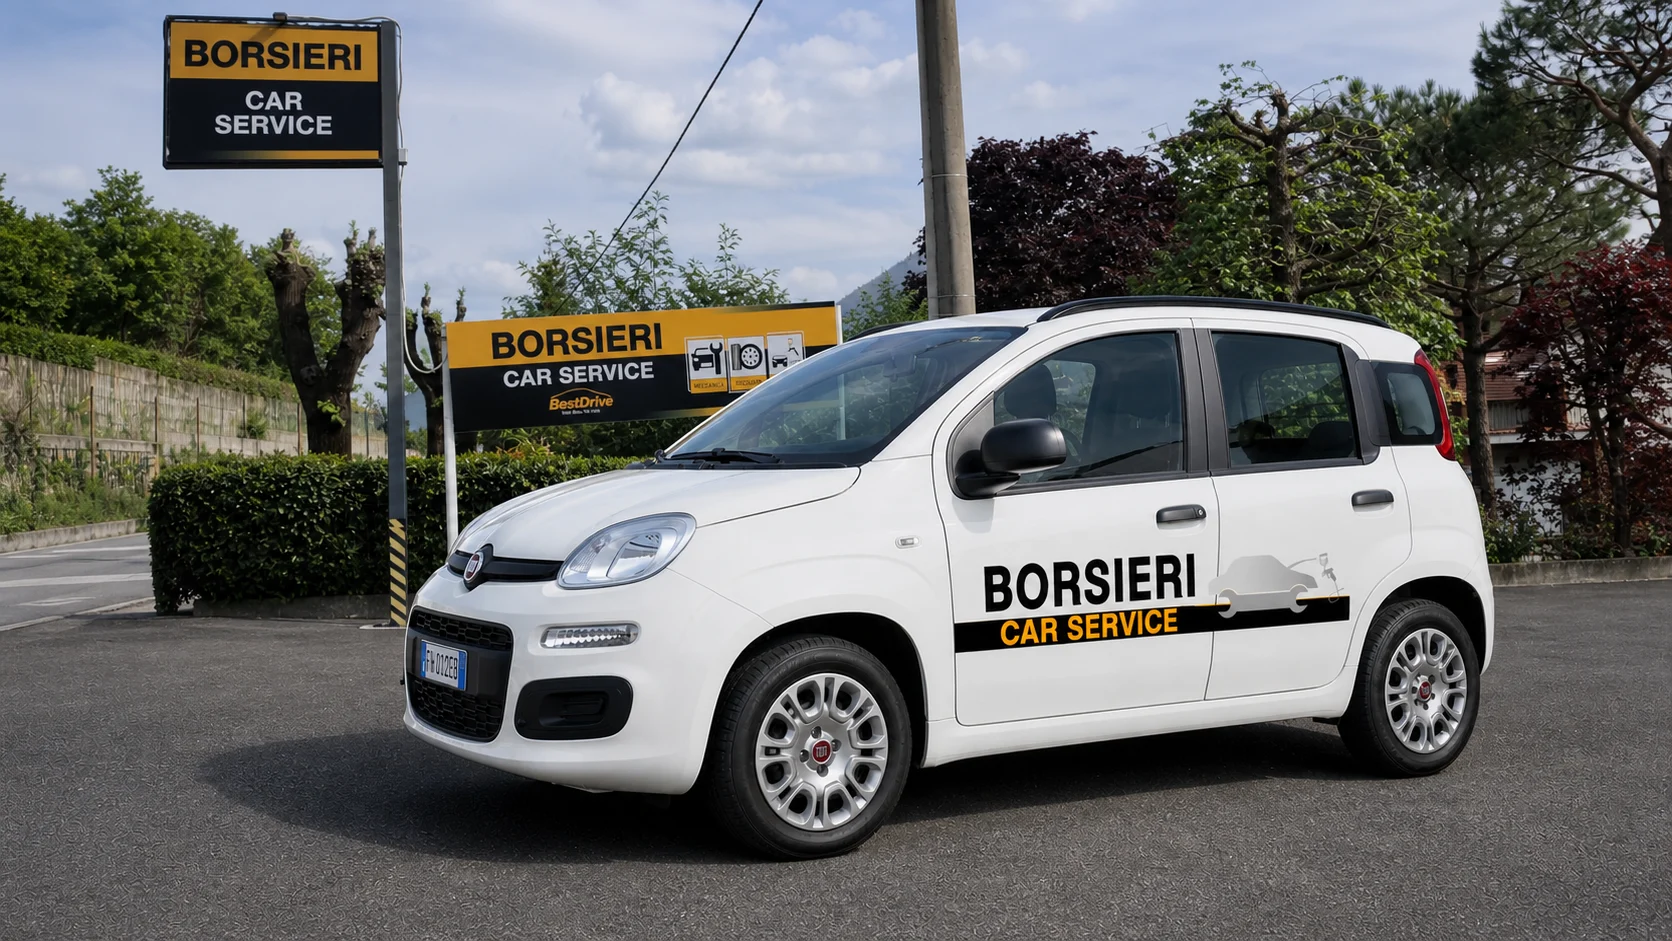
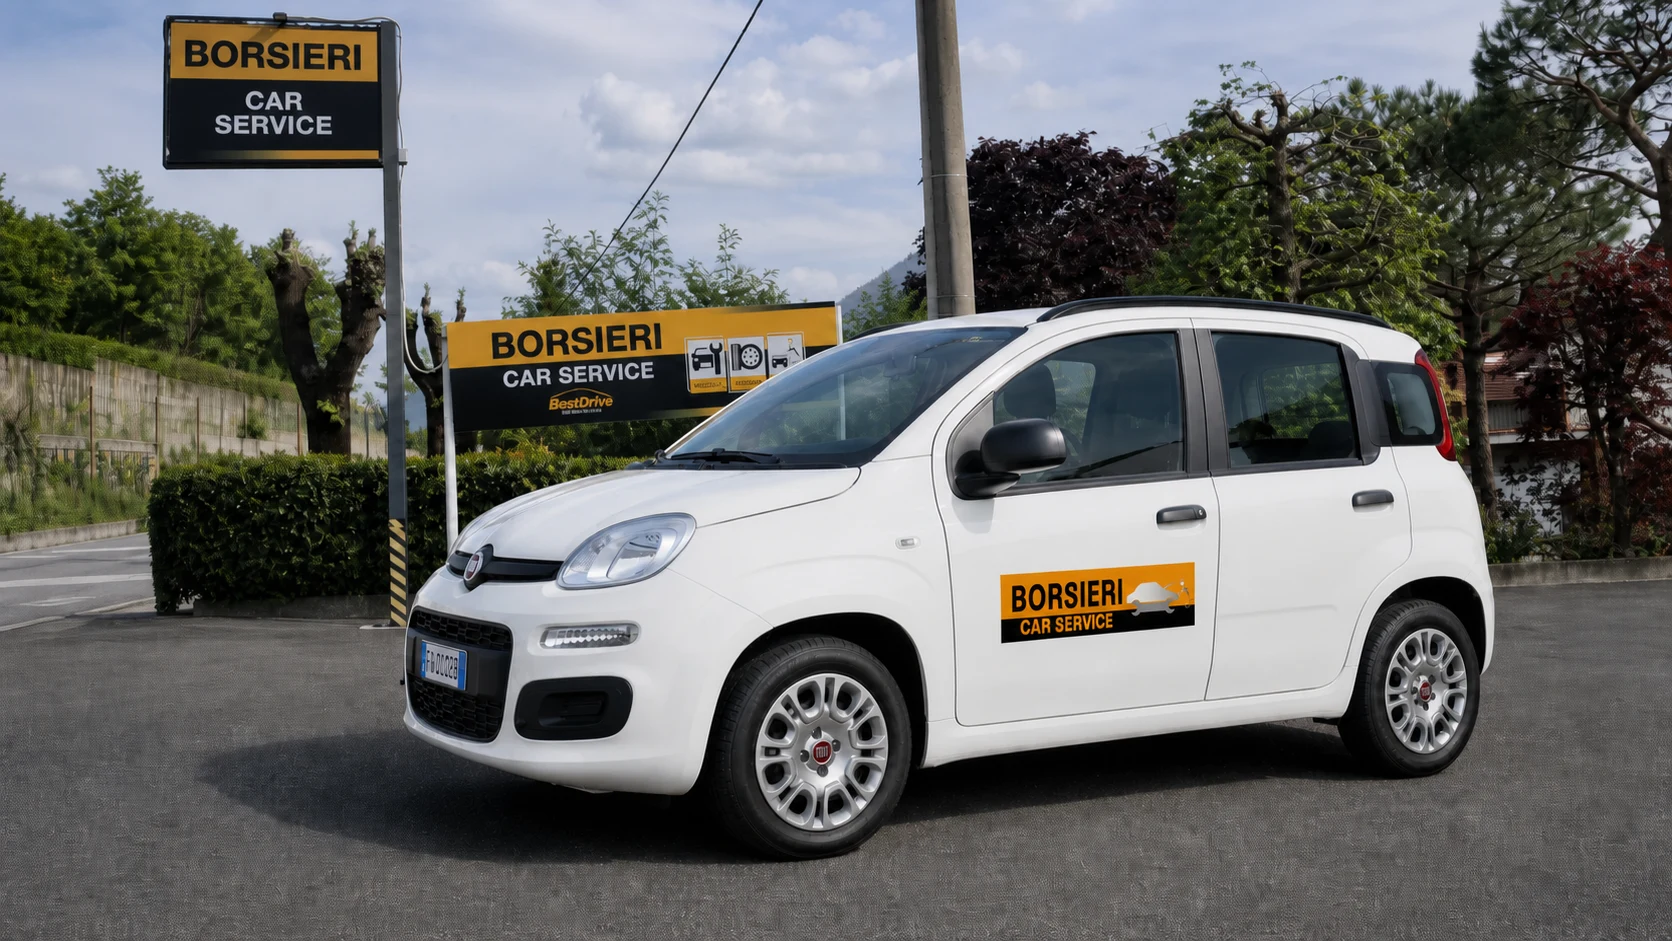
Expand mechanical services and refine courtesy car

diff --git a/app/page.tsx b/app/page.tsx
@@ -92,6 +92,7 @@ export default function Home() {
         </a>
         <nav className="nav" aria-label="Navigazione principale">
           <a href="#servizi">Carrozzeria</a>
+          <a href="#meccanica">Meccanica</a>
           <a href="#lavorazioni">Lavorazioni</a>
           <a href="/prenotazione-cambio-gomme">Cambio gomme</a>
           <a href="#contatti">Contatti</a>
@@ -114,6 +115,9 @@ export default function Home() {
             <div className="hero-actions">
               <a className="button primary" href="#servizi">
                 Richiedi valutazione in sede
+              </a>
+              <a className="button secondary" href="#meccanica">
+                Assistenza meccanica
               </a>
               <a className="button secondary" href="/prenotazione-cambio-gomme">
                 Prenota cambio gomme
@@ -184,6 +188,51 @@ export default function Home() {
         </div>
       </section>
 
+      <section className="mechanic-focus" id="meccanica">
+        <div className="section-inner mechanic-focus-grid">
+          <div className="mechanic-focus-media">
+            <img
+              src="/servizio-meccanica.webp"
+              alt="Tecnico Borsieri durante un intervento nel vano motore"
+            />
+          </div>
+          <div className="mechanic-focus-copy">
+            <div className="eyebrow">Officina meccanica</div>
+            <h2>Diagnosi e manutenzione con competenza tecnica</h2>
+            <p>
+              L&apos;area meccanica completa il servizio Borsieri con controlli accurati,
+              manutenzione programmata e interventi sui principali sistemi del veicolo. Un unico
+              referente coordina diagnosi, lavorazione e verifica finale.
+            </p>
+            <div className="mechanic-capabilities" aria-label="Servizi di officina meccanica">
+              <div>
+                <strong>Diagnosi e controlli</strong>
+                <span>Elettronica, livelli, componenti e verifica delle anomalie.</span>
+              </div>
+              <div>
+                <strong>Manutenzione programmata</strong>
+                <span>Tagliandi e interventi periodici secondo le esigenze del veicolo.</span>
+              </div>
+              <div>
+                <strong>Sicurezza e comfort</strong>
+                <span>Freni, sospensioni, climatizzazione e controlli funzionali.</span>
+              </div>
+            </div>
+            <div className="mechanic-focus-actions">
+              <a
+                className="button primary"
+                href="mailto:borsiericar@gmail.com?subject=Richiesta%20intervento%20meccanico"
+              >
+                Richiedi un controllo
+              </a>
+              <a className="button mechanic-secondary" href="tel:+39031210622">
+                Chiama l&apos;officina
+              </a>
+            </div>
+          </div>
+        </div>
+      </section>
+
       <section className="swiss-service" aria-labelledby="swiss-service-title">
         <div className="section-inner swiss-service-grid">
           <div className="swiss-service-copy">
@@ -207,12 +256,19 @@ export default function Home() {
             </div>
           </div>
           <div className="replacement-car-highlight">
-            <span>Mobilita durante la lavorazione</span>
-            <strong>Auto sostitutiva anche per residenti in Svizzera</strong>
-            <p>
-              Disponibile su richiesta e previa conferma, in base alla durata dell&apos;intervento e
-              alla disponibilita dei veicoli.
-            </p>
+            <div
+              aria-label="Fiat Panda sostitutiva Borsieri Car Service"
+              className="replacement-car-image"
+              role="img"
+            />
+            <div className="replacement-car-content">
+              <span>Mobilita durante la lavorazione</span>
+              <strong>Auto sostitutiva anche per residenti in Svizzera</strong>
+              <p>
+                Disponibile su richiesta e previa conferma, in base alla durata dell&apos;intervento e
+                alla disponibilita dei veicoli.
+              </p>
+            </div>
           </div>
         </div>
       </section>

diff --git a/app/globals.css b/app/globals.css
@@ -664,39 +664,128 @@ h1 {
 }
 
 .replacement-car-highlight {
-  align-content: end;
-  background:
-    linear-gradient(180deg, rgba(0, 0, 0, 0.12), rgba(0, 0, 0, 0.88)),
-    url("/auto-sostitutiva-borsieri.webp");
-  background-position: center;
-  background-size: cover;
+  background: #0b0b0b;
   border: 1px solid rgba(255, 153, 0, 0.36);
   border-radius: 8px;
   display: grid;
-  min-height: 360px;
-  padding: 22px;
+  grid-template-rows: minmax(250px, 1fr) auto;
+  min-height: 480px;
+  overflow: hidden;
 }
 
-.replacement-car-highlight span {
+.replacement-car-image {
+  background-image: url("/auto-sostitutiva-borsieri.webp");
+  background-position: center;
+  background-size: cover;
+  min-height: 250px;
+}
+
+.replacement-car-content {
+  border-top: 1px solid rgba(255, 153, 0, 0.28);
+  padding: 20px;
+}
+
+.replacement-car-content span {
   color: var(--orange);
+  display: block;
   font-size: 0.72rem;
   font-weight: 900;
   margin-bottom: 10px;
   text-transform: uppercase;
 }
 
-.replacement-car-highlight strong {
+.replacement-car-content strong {
+  display: block;
   font-size: clamp(1.55rem, 7vw, 2.5rem);
   line-height: 1.02;
   max-width: 540px;
   text-transform: uppercase;
 }
 
-.replacement-car-highlight p {
+.replacement-car-content p {
   color: #d4d4d4;
   line-height: 1.5;
   margin: 14px 0 0;
   max-width: 520px;
+}
+
+.mechanic-focus {
+  background: #ececec;
+  color: #111;
+}
+
+.mechanic-focus-grid {
+  display: grid;
+  gap: 28px;
+}
+
+.mechanic-focus-media {
+  border-radius: 8px;
+  min-height: 320px;
+  overflow: hidden;
+}
+
+.mechanic-focus-media img {
+  height: 100%;
+  object-fit: cover;
+  width: 100%;
+}
+
+.mechanic-focus-copy .eyebrow {
+  color: #4f4f4f;
+}
+
+.mechanic-focus-copy h2 {
+  font-size: clamp(2rem, 10vw, 4rem);
+  line-height: 0.96;
+  margin: 0;
+  max-width: 760px;
+  text-transform: uppercase;
+}
+
+.mechanic-focus-copy > p {
+  color: #535353;
+  line-height: 1.58;
+  margin: 18px 0 0;
+  max-width: 680px;
+}
+
+.mechanic-capabilities {
+  border-bottom: 1px solid rgba(0, 0, 0, 0.18);
+  margin-top: 24px;
+}
+
+.mechanic-capabilities > div {
+  border-top: 1px solid rgba(0, 0, 0, 0.18);
+  display: grid;
+  gap: 6px;
+  padding: 14px 0;
+}
+
+.mechanic-capabilities strong {
+  font-size: 0.92rem;
+  text-transform: uppercase;
+}
+
+.mechanic-capabilities span {
+  color: #616161;
+  line-height: 1.45;
+}
+
+.mechanic-focus-actions {
+  display: grid;
+  gap: 10px;
+  margin-top: 24px;
+}
+
+.button.mechanic-secondary {
+  background: transparent;
+  border-color: rgba(0, 0, 0, 0.28);
+  color: #111;
+}
+
+.button.mechanic-secondary:hover {
+  border-color: #111;
 }
 
 .booking-page {
@@ -1469,6 +1558,10 @@ footer {
     display: flex;
   }
 
+  .mechanic-focus-actions {
+    display: flex;
+  }
+
   .booking-contact-actions {
     grid-template-columns: repeat(2, max-content);
   }
@@ -1488,6 +1581,8 @@ footer {
 
   .nav {
     display: flex;
+    font-size: 0.84rem;
+    gap: 16px;
   }
 
   .hero {
@@ -1620,6 +1715,15 @@ footer {
   .swiss-service-grid {
     align-items: stretch;
     grid-template-columns: minmax(0, 0.92fr) minmax(380px, 0.72fr);
+  }
+
+  .mechanic-focus-grid {
+    align-items: stretch;
+    grid-template-columns: minmax(420px, 0.92fr) minmax(0, 0.88fr);
+  }
+
+  .mechanic-focus-media {
+    min-height: 620px;
   }
 
   .contact-grid {

diff --git a/app/prenotazione-cambio-gomme/page.tsx b/app/prenotazione-cambio-gomme/page.tsx
@@ -50,6 +50,7 @@ export default function TireBookingPage() {
         </Link>
         <nav className="nav" aria-label="Navigazione principale">
           <Link href="/#servizi">Carrozzeria</Link>
+          <Link href="/#meccanica">Meccanica</Link>
           <Link href="/#lavorazioni">Lavorazioni</Link>
           <a aria-current="page" href="#prenota">Cambio gomme</a>
           <Link href="/#contatti">Contatti</Link>
